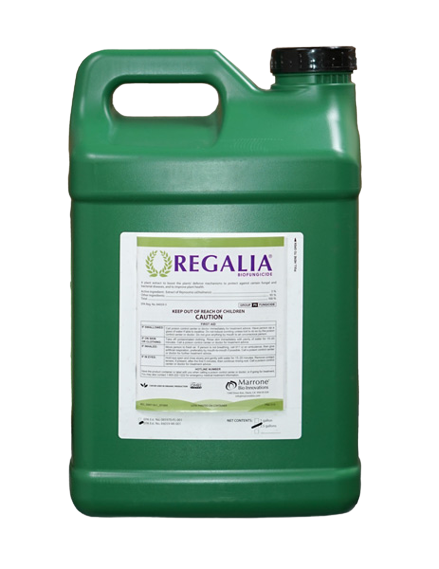
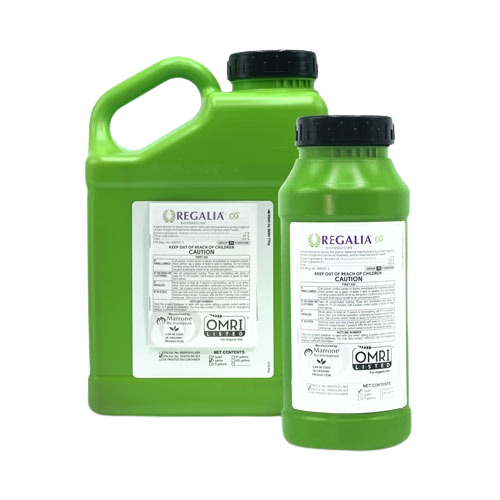
more pest changes

diff --git a/grower/src/components/gallery-page-pesticides.jsx b/grower/src/components/gallery-page-pesticides.jsx
@@ -46,14 +46,19 @@ import bshDoctr from "../images/foxfarms/bushdoctor.png";
 
 import spr_Conc from "../images/biogreen/spray-and-concentrate.png";
 
+import ipm from "../images/athena/ipm.png";
+import athMild from "../images/athena/mildew.png";
+
+import mighty from "../images/npk-industries/mighty.png";
+import wash from "../images/npk-industries/wash.png";
+
 import montespray from "../images/monterey/insect-spray.png";
 import nuke from "../images/flying-skull/nuke.png";
 import plantwash from "../images/lost-coast/plant-wash.png";
-import ipm from "../images/athena/athena-pest.png";
 import canncontrol from "../images/mammoth/canncontrol.png";
 import azamax from "../images/general-hydroponics/azamax1.png";
 import gognats from "../images/earth-juice/gognats.png";
-import npk from "../images/npk-industries/npk-industries.png";
+
 import regalia from "../images/regalia/fungicide.png";
 import exterminator from "../images/bigtime/exterminator.png";
 import banish_smite from "../images/supreme/supreme-bottles.png";
@@ -157,42 +162,55 @@ export default function Pesticides(props) {
     media_img100={plantwash}
     malt100="Lost Coast Plant Therapy Plant Wash Concentrate" />
 
-    <PestItem src={athenalogo}
+    <ItemUpgraded src={athenalogo}
     href="https://www.athenaproducts.com/ipm"
-    producttype="IPM"
-    products1="Broad Spectrum Insecticide and Pesticide"
-    producttype2="Mildew Control"
-    media_img={ipm} />
+    alt="Athena"
+    producttype="Garden Threat Control"
+    item="IPM"
+    media_img={ipm}
+    malt="Athena IPM"
+    item1="Mildew Control"
+    media_img1={athMild}
+    malt1="Athena Mildew Control" />
 
-    <PestItem src={mammothlogo}
+    <ItemUpgraded src={mammothlogo}
     href="https://mammothmicrobes.com/product/mammoth-canncontrol/"
-    producttype="CannControl"
-    products1="Effective against mold, mildew, mites & insects"
-    media_img={canncontrol} />
+    alt="Mammoth"
+    producttype="Pesticide & Fungicide"
+    item100="CannControl"
+    media_img100={canncontrol}
+    malt100="Mammoth CannControl" />
 
     <Item
     title="Wipe Out" />
 
-    <PestItem src={npklogo}
+    <ItemUpgraded src={npklogo}
     href="https://npk-industries.com/collections/controls"
-    producttype="Mighty"
-    products1="Spider Miticide Concentrate"
-    producttype2="PM Wash"
-    products21="Plant Cleaner Concentrate"
-    media_img={npk} />
+    alt="NPK Industries"
+    producttype="Garden Control"
+    item="Spider Miticide Concentrate"
+    media_img={mighty}
+    malt="NPK Industries Mighty"
+    item1="Plant Cleaner Concentrate"
+    media_img1={wash}
+    malt1="NPK Industries PM Wash" />
 
-    <PestItem src={marronelogo}
-    href="https://marronebio.com/products/regalia/"
-    producttype="Regalia"
-    products1="Bio-Fungicide"
+    <ItemUpgraded src={marronelogo}
     organic={omri}
-    media_img={regalia} />
+    href="https://marronebio.com/products/regalia/"
+    alt="Marrone Bio Innovations"
+    producttype="Bio-Fungicide"
+    item100="Bio-Fungicide"
+    media_img100={regalia}
+    malt100="Marrone Bio Innovations Regalia" />
 
-    <PestItem src={bigtimelogo}
-    producttype="Exterminator"
-    products1="Pesticide Concentrate"
+    <ItemUpgraded src={bigtimelogo}
+    producttype="Pesticide Concentrate"
+    alt="Big Time"
+    item100="Exterminator"
     href="https://bigtimezyme.com/shop/product/exterminator/"
-    media_img={exterminator} />
+    media_img100={exterminator}
+    malt100="Big Time Exterminator" />
 
     <PestItem src={orglablogo}
     href="https://organiclabs.com/o/organocide-bee-safe-3-in-1-garden-spray/"
